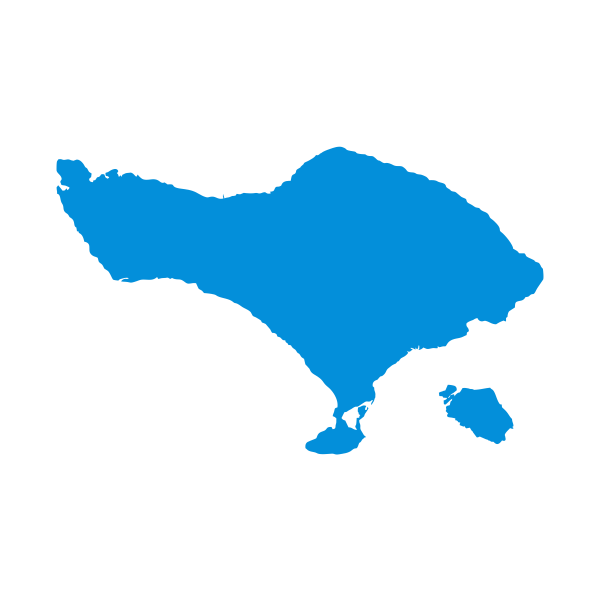
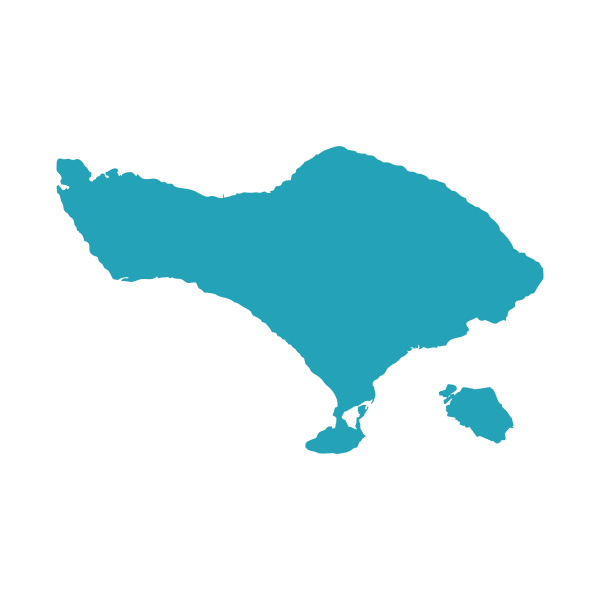
update

Changed region(s): [[0.09, 0.24, 0.93, 0.78], [0.72, 0.63, 0.87, 0.75]]

diff --git a/assets/css/style.css b/assets/css/style.css
@@ -5254,7 +5254,7 @@ section {
 .detailsatulowongan .sidebar .social-links a {
     font-size: 23px;
     display: inline-block;
-    color: #088ed7;
+    color: #23a2b8;
     line-height: 0;
     margin-right: 10px;
     transition: 0.3s;
@@ -5268,7 +5268,7 @@ section {
 
 .detailsatulowongan .sidebar p {
     font-size: 18px;
-    color: #088ed7;
+    color: #23a2b8;
 }
 
 .detailsatulowongan .sidebar .tags ul a:hover {
